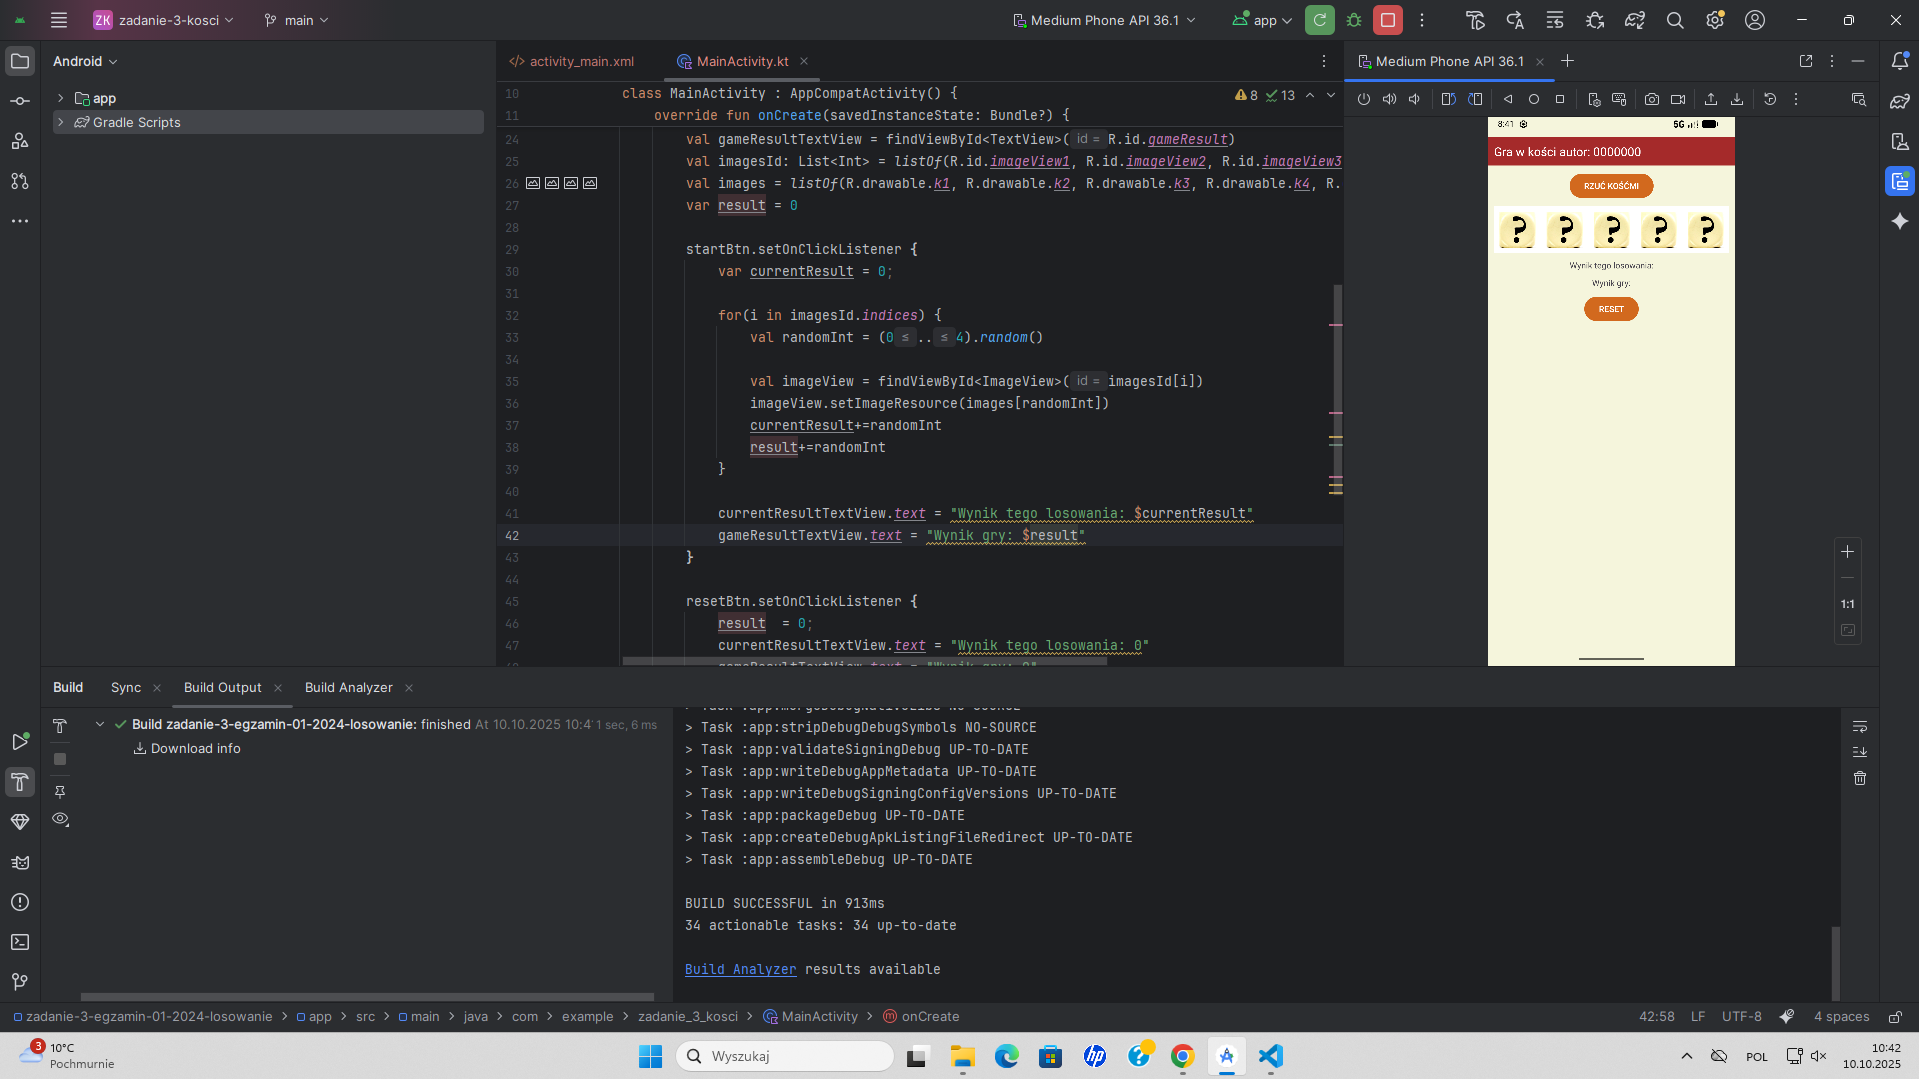
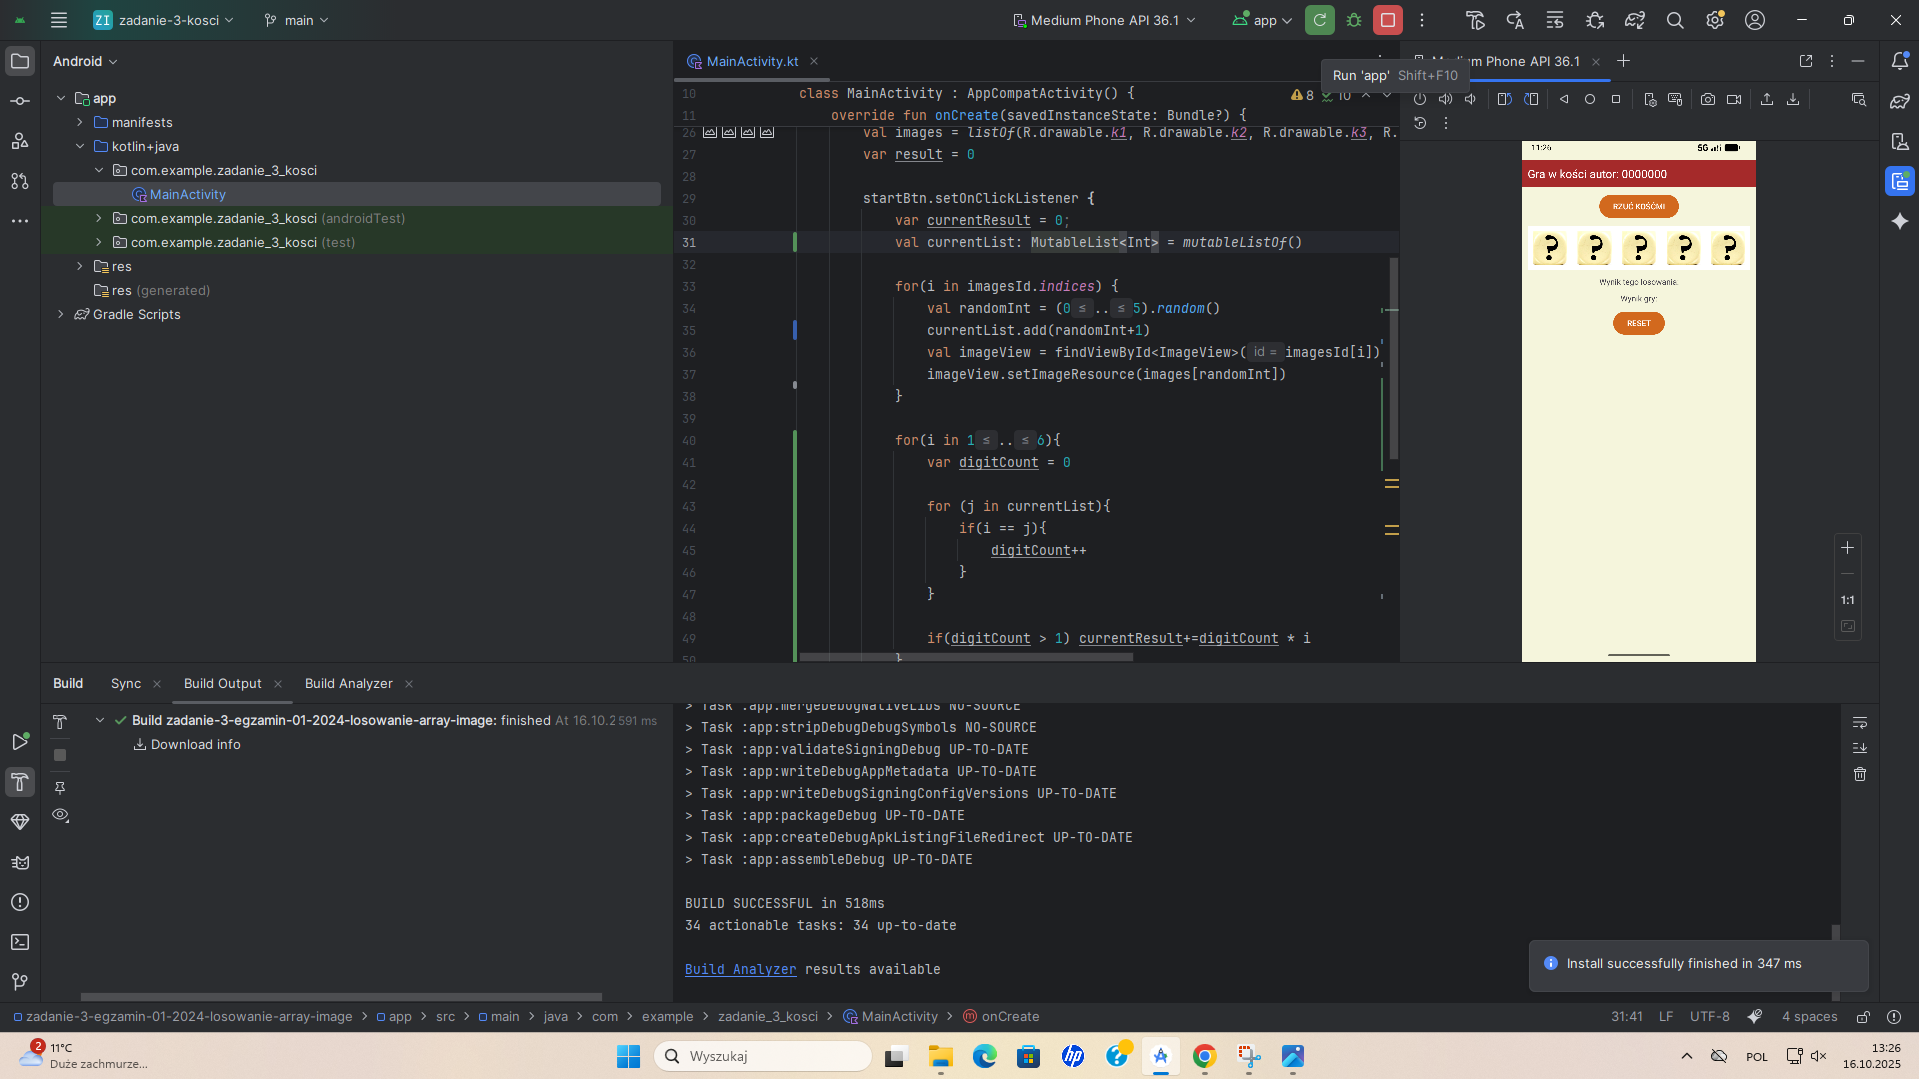
update

diff --git a/android/zadanie-3-egzamin-01-2024-losowanie-array-image/app/src/main/java/com/example/zadanie_3_kosci/MainActivity.kt b/android/zadanie-3-egzamin-01-2024-losowanie-array-image/app/src/main/java/com/example/zadanie_3_kosci/MainActivity.kt
@@ -28,16 +28,28 @@ class MainActivity : AppCompatActivity() {
 
         startBtn.setOnClickListener {
             var currentResult = 0;
+            val currentList: MutableList<Int> = mutableListOf()
 
             for(i in imagesId.indices) {
                 val randomInt = (0..5).random()
-
+                currentList.add(randomInt+1)
                 val imageView = findViewById<ImageView>(imagesId[i])
                 imageView.setImageResource(images[randomInt])
-                currentResult+=randomInt+1
-                result+=randomInt+1
             }
 
+            for(i in 1..6){
+                var digitCount = 0
+
+                for (j in currentList){
+                    if(i == j){
+                        digitCount++
+                    }
+                }
+
+                if(digitCount > 1) currentResult+=digitCount * i
+            }
+
+            result+=currentResult
             currentResultTextView.text = "Wynik tego losowania: $currentResult"
             gameResultTextView.text = "Wynik gry: $result"
         }
@@ -53,11 +65,6 @@ class MainActivity : AppCompatActivity() {
                 imageView.setImageResource(R.drawable.question)
             }
         }
-
-//        dla array
-//        for (owoc in lista) {
-//            println(owoc)
-//        }
 
     }
 }
